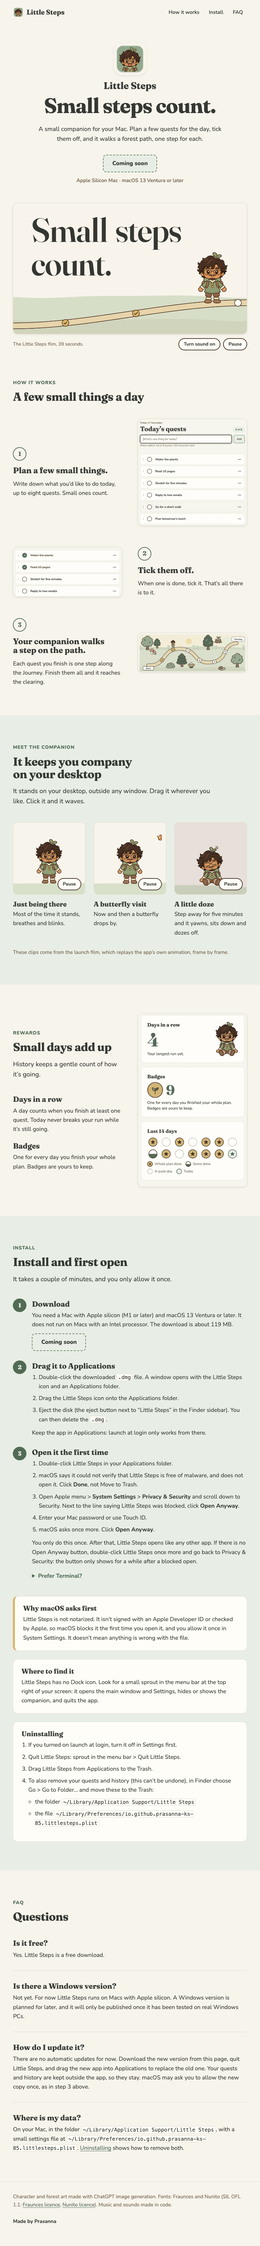
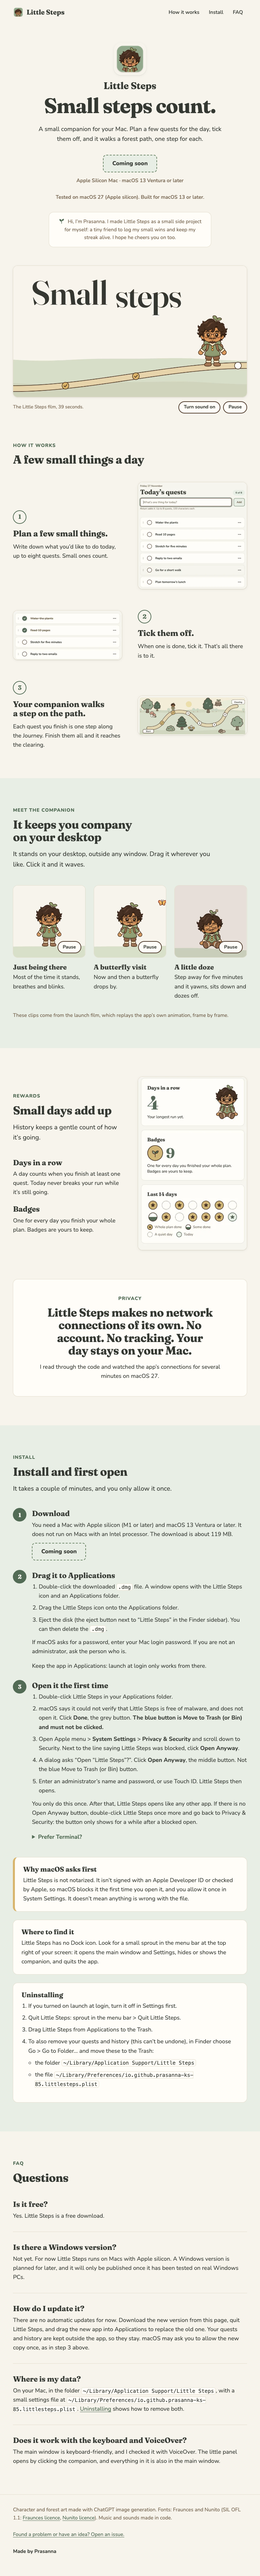
Site wording: macOS 27 first-open steps, Privacy section back, FAQ, OG address, Feedback link

diff --git a/index.html b/index.html
@@ -21,7 +21,8 @@
     <meta property="og:type" content="website" />
     <meta property="og:title" content="Little Steps" />
     <meta property="og:description" content="Small steps count. A small companion for your Mac that walks a forest path as you finish your daily quests." />
-    <meta property="og:image" content="og-image.jpg" />
+    <meta property="og:url" content="https://little-steps-weld.vercel.app/" />
+    <meta property="og:image" content="https://little-steps-weld.vercel.app/og-image.jpg" />
     <meta property="og:image:width" content="1200" />
     <meta property="og:image:height" content="630" />
     <meta property="og:image:alt" content="“Small steps count.” beside the Little Steps companion standing on a forest path." />
@@ -65,6 +66,7 @@
           <div class="cta">
             <button class="button button--soon" type="button" disabled data-download>Coming soon</button>
             <p class="cta-note">Apple Silicon Mac · macOS 13 Ventura or later</p>
+            <p class="cta-note">Tested on macOS 27 (Apple silicon). Built for macOS 13 or later.</p>
           </div>
           <p class="maker-note">
             <img src="assets/img/sprout-36.png" width="18" height="18" alt="" />
@@ -263,7 +265,16 @@
         </div>
       </section>
 
-      <!-- 5. Privacy: not on the page until the network check passes (docs/privacy-section.html). -->
+      <!-- 5. Privacy (how to take it off or put it back: docs/privacy-section.html) -->
+      <section class="section section--follow" id="privacy" aria-labelledby="privacy-title">
+        <div class="wrap">
+          <div class="privacy-card">
+            <span class="eyebrow">Privacy</span>
+            <h2 id="privacy-title">Little Steps makes no network connections of its own. No account. No tracking. Your day stays on your Mac.</h2>
+            <p>I read through the code and watched the app’s connections for several minutes on macOS 27.</p>
+          </div>
+        </div>
+      </section>
 
       <!-- 6. Install and first open -->
       <section class="section section--sage" id="install" aria-labelledby="install-title">
@@ -287,16 +298,17 @@
                   <li>Drag the Little Steps icon onto the Applications folder.</li>
                   <li>Eject the disk (the eject button next to “Little Steps” in the Finder sidebar). You can then delete the <code>.dmg</code>.</li>
                 </ol>
+                <p>If macOS asks for a password, enter your Mac login password. If you are not an administrator, ask the person who is.</p>
                 <p>Keep the app in Applications: launch at login only works from there.</p>
               </li>
               <li>
                 <h3>Open it the first time</h3>
                 <ol>
                   <li>Double-click Little Steps in your Applications folder.</li>
-                  <li>macOS says it could not verify that Little Steps is free of malware, and does not open it. Click <strong>Done</strong>, not Move to Trash.</li>
+                  <li>macOS says it could not verify that Little Steps is free of malware, and does not open it. Click <strong>Done</strong>, the grey button. <strong>The blue button is Move to Trash (or Bin) and must not be clicked.</strong></li>
                   <li>Open Apple menu &gt; <strong>System Settings</strong> &gt; <strong>Privacy &amp; Security</strong> and scroll down to Security. Next to the line saying Little Steps was blocked, click <strong>Open Anyway</strong>.</li>
-                  <li>Enter your Mac password or use Touch ID.</li>
-                  <li>macOS asks once more. Click <strong>Open Anyway</strong>.</li>
+                  <li>A dialog titled <strong>Open “Little Steps”?</strong> appears. Click <strong>Open Anyway</strong>, the middle button. Not the blue Move to Trash (or Bin) button.</li>
+                  <li>Enter an administrator’s name and password, or use Touch ID. Little Steps then opens.</li>
                 </ol>
                 <p>You only do this once. After that, Little Steps opens like any other app. If there is no Open Anyway button, double-click Little Steps once more and go back to Privacy &amp; Security: the button only shows for a while after a blocked open.</p>
                 <details>
@@ -361,6 +373,11 @@
               On your Mac, in the folder <code>~/Library/Application Support/Little Steps</code>, with a small settings file at
               <code>~/Library/Preferences/io.github.prasanna-ks-85.littlesteps.plist</code>. <a href="#uninstall">Uninstalling</a> shows how to remove both.
             </dd>
+
+            <dt>Does it work with the keyboard and VoiceOver?</dt>
+            <dd>
+              The main window is keyboard-friendly, and I checked it with VoiceOver. The little panel opens by clicking the companion, and everything in it is also in the main window.
+            </dd>
           </dl>
         </div>
       </section>
@@ -373,6 +390,7 @@
           Character and forest art made with ChatGPT image generation. Fonts: Fraunces and Nunito (SIL OFL 1.1:
           <a href="assets/fonts/OFL-Fraunces.txt">Fraunces licence</a>, <a href="assets/fonts/OFL-Nunito.txt">Nunito licence</a>). Music and sounds made in code.
         </p>
+        <p><a href="https://github.com/Prasanna-KS-85/little-steps-site/issues" rel="noopener">Found a problem or have an idea? Open an issue.</a></p>
         <p class="made">Made by Prasanna</p>
       </div>
     </footer>

diff --git a/docs/privacy-section.html b/docs/privacy-section.html
@@ -1,9 +1,19 @@
 <!--
-  Privacy section for index.html. NOT SHIPPED: it stays out of the page until the network check has
-  passed (docs/site-open-items.md).
+  Privacy section. SHIPPED: this is a copy of what sits in index.html, kept so it can be taken off and
+  put back. The page claims only what was checked: no network connections of its own (code read, and the
+  app's connections watched for several minutes on macOS 27). Do not widen the wording without a longer check.
 
-  To add it back:
-  1. Copy the <section> below into index.html, in place of the comment
+  To take it off:
+  1. In index.html, replace the whole <section id="privacy"> ... </section> (it sits between the Rewards
+     and Install sections) with the comment "<!-- 5. Privacy: off the page (docs/privacy-section.html) -->".
+  2. Nothing else: the styles (.section--follow, .privacy-card) stay in assets/css/site.css and no script
+     is involved. Then also drop "tracking" from this check: docs/checks.md expects it only in this section.
+
+  To put it back:
+  1. Copy the <section> below into index.html, in place of that comment.
+  2. That's all.
+-->
+<section> below into index.html, in place of the comment
      "<!-- 5. Privacy: not on the page ... -->", which sits between the Rewards and Install sections.
   2. That's all. The styles are already in assets/css/site.css (.section--follow, .privacy-card),
      and no script is involved.
@@ -14,7 +24,8 @@
   <div class="wrap">
     <div class="privacy-card">
       <span class="eyebrow">Privacy</span>
-      <h2 id="privacy-title">No account. No tracking. Your day stays on your Mac.</h2>
+      <h2 id="privacy-title">Little Steps makes no network connections of its own. No account. No tracking. Your day stays on your Mac.</h2>
+      <p>I read through the code and watched the app’s connections for several minutes on macOS 27.</p>
     </div>
   </div>
 </section>

diff --git a/assets/js/config.js b/assets/js/config.js
@@ -5,8 +5,8 @@
 //           https://github.com/Prasanna-KS-85/little-steps-site/releases/latest/download/Little-Steps.dmg
 // owner:    the GitHub account that holds the little-steps-site repository.
 //
-// The Privacy section is not a switch: it is not in the page until the network check has passed.
-// How to add it then: docs/privacy-section.html.
+// The Privacy section is not a switch: it is plain HTML in index.html.
+// How to take it off or put it back: docs/privacy-section.html.
 window.LITTLE_STEPS_CONFIG = {
   download: 'soon',
   owner: 'Prasanna-KS-85',

diff --git a/docs/site-open-items.md b/docs/site-open-items.md
@@ -5,8 +5,10 @@ Each one names what would close it.
 
 ## Waiting on a check
 
-1. **Privacy section is not in the page.** Its text is not in any shipped file. The section and the
-   steps to add it back are in `docs/privacy-section.html`; add it once the network check has passed.
+1. **Privacy section is in the page, with a modest check behind it.** It says only that Little Steps
+   makes no network connections of its own, and that I read through the code and watched the app's
+   connections for several minutes on macOS 27. Do not widen it (no "never", no audit claims) without a
+   longer check. How to take it off or put it back: `docs/privacy-section.html`.
 2. **The hero film is cut at 39.1 s, not the full 45.3 s.** From about frame 1176 the v2 film shows the
    same privacy line, and its lockup shows a literal `[site]` placeholder. The loop stops at frame
    1174, the end of the yawn (`HERO_END_FRAME` in `tools/build_assets.py`). To use the full film, the
@@ -36,10 +38,10 @@ Each one names what would close it.
 
 ## Not verified, so worded carefully or left out
 
-9. **Open Anyway steps on macOS 13 and 14.** The steps (click Done, then Privacy & Security > Open
-   Anyway) are copied from `docs/INSTALL.md` in the app repo. They match the current macOS dialog. The
-   dialog wording on Ventura and Sonoma was not checked and may differ (for example, Cancel instead of
-   Done).
+9. **Open Anyway steps on macOS 13 and 14.** The steps (click Done, grey button; Privacy & Security >
+   Open Anyway; the "Open "Little Steps"?" dialog > Open Anyway, middle button; administrator name and
+   password or Touch ID) are the order observed on macOS 27. The dialog wording and order on Ventura
+   and Sonoma were not checked and may differ.
 10. **Updating.** The page says "macOS may ask you to allow the new copy once." It is not tested
     whether a replaced, newly downloaded copy brings the Gatekeeper prompt back. That a replaced app
     keeps the data is verified: the data is in `userData`, outside the app bundle.

diff --git a/README.md b/README.md
@@ -19,7 +19,7 @@ Then open http://127.0.0.1:8765/ and stop the server with Ctrl+C when done.
   release, `Little-Steps.dmg`)
 - `owner`: the GitHub account in that link
 
-The Privacy section is not in the page. It goes in by hand once the network check has passed: see
+The Privacy section is in the page. How to take it off again, and put it back, is in
 `docs/privacy-section.html`.
 
 ## Files
@@ -32,7 +32,7 @@ The Privacy section is not in the page. It goes in by hand once the network chec
 | `assets/fonts/`          | Fraunces and Nunito from the app, with their SIL OFL 1.1 licence texts      |
 | `assets/img`, `video`    | Built by `tools/build_assets.py` from the app and launch repos (read-only)  |
 | `tools/`                 | Dev-only: asset build, contrast check, screenshot and request audit         |
-| `docs/`                  | Open items, checks, screenshots, the unshipped Privacy section             |
+| `docs/`                  | Open items, checks, screenshots, the Privacy section (how to remove or restore) |
 
 ## Rebuild the images and videos
 

diff --git a/docs/checks.md b/docs/checks.md
@@ -86,3 +86,15 @@ Sage at 4.95:1.
 - Focus is visible everywhere (Forest Green, 2 px, offset 2 px, as in the app).
 - Motion: nothing plays under reduced motion. Every moving video has a Pause button (WCAG 2.2.2), and
   sound is off until the reader turns it on.
+
+## Wording and Privacy pass (28 November 2026)
+
+- Served with `python3 -m http.server 8765 --bind 127.0.0.1`, headless Chrome via `tools/shoot.mjs`.
+- Requests at 390, 768 and 1440 px: every request to `127.0.0.1:8765` (the page's own origin), none
+  external (the only non-http entries are inline `data:` icons from the video controls).
+- `python3 tools/contrast.py`: all pairs pass.
+- "tracking" appears once in `index.html`, in the Privacy heading. The footer has no such text.
+- Section crops: `home-install-{390,1440}.png`, `home-privacy-{390,1440}.png`, `home-footer-{390,1440}.png`
+  (`--sections=install,privacy,footer`).
+- Not checked: the Open Graph tags were not fetched from the live site, and the Feedback link was not
+  clicked (no external requests).
